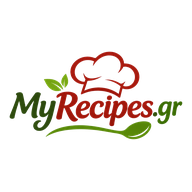
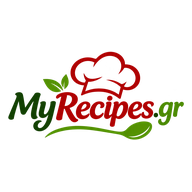
Λογότυπο χωρίς φόντο σε υψηλή ανάλυση
- Νέο διάφανο λογότυπο στην κεφαλίδα, στη σύνδεση και στην κοινοποίηση
- Στο σκούρο θέμα χωρίς λευκό πλαίσιο, με λεπτό ανοιχτό περίγραμμα
- Νέα εικονίδια εφαρμογής από το ίδιο αρχείο

Claude-Session: https://claude.ai/code/session_012AHsUfZs3sWFpJKNW1fSGE

Changed region(s): [[0.0312, 0.25, 0.9688, 0.75]]

diff --git a/index.html b/index.html
@@ -15,7 +15,7 @@
 <meta name="apple-mobile-web-app-status-bar-style" content="default">
 <link rel="preconnect" href="https://fonts.googleapis.com">
 <link rel="stylesheet" href="https://fonts.googleapis.com/css2?family=Commissioner:wght@500;700;800&family=Inter:wght@400;500;600&family=Roboto+Mono:wght@400;500&display=swap">
-<link rel="stylesheet" href="styles.css?v=15">
+<link rel="stylesheet" href="styles.css?v=16">
 </head>
 <body>
 
@@ -23,7 +23,7 @@
 <div class="wrap" id="authView" hidden>
   <div class="auth">
     <div class="auth-card">
-      <div class="auth-top"><h1 class="logo-h"><img class="logo" src="logo.png?v=15" alt="MyRecipes.gr" width="600" height="310"></h1><button class="linkish" id="authLang" type="button" translate="no">English</button></div>
+      <div class="auth-top"><h1 class="logo-h"><img class="logo" src="logo.png?v=16" alt="MyRecipes.gr" width="900" height="462"></h1><button class="linkish" id="authLang" type="button" translate="no">English</button></div>
       <p id="authIntro">Συνδέσου για να δεις τις συνταγές σου.</p>
       <form id="authForm" novalidate>
         <label class="f" id="emailRow">Email<input id="a-email" type="email" autocomplete="email" inputmode="email"></label>
@@ -45,7 +45,7 @@
   <header class="top">
     <div class="top-row">
       <div class="brand">
-        <h1 class="logo-h"><img class="logo" src="logo.png?v=15" alt="MyRecipes.gr" width="600" height="310"></h1>
+        <h1 class="logo-h"><img class="logo" src="logo.png?v=16" alt="MyRecipes.gr" width="900" height="462"></h1>
         <span>Οι συνταγές μου, ανά εστιατόριο</span>
       </div>
       <div class="top-right">
@@ -92,7 +92,7 @@
 </div>
 
 <div class="wrap" id="shareView" hidden>
-  <header class="top"><div class="top-row"><div class="brand"><a href="./" class="logo-link"><h1 class="logo-h"><img class="logo" src="logo.png?v=15" alt="MyRecipes.gr" width="600" height="310"></h1></a><span>Κοινοποιημένη συνταγή</span></div></div></header>
+  <header class="top"><div class="top-row"><div class="brand"><a href="./" class="logo-link"><h1 class="logo-h"><img class="logo" src="logo.png?v=16" alt="MyRecipes.gr" width="900" height="462"></h1></a><span>Κοινοποιημένη συνταγή</span></div></div></header>
   <div id="shareBox"></div>
 </div>
 
@@ -104,8 +104,8 @@
 <div id="toast" class="toast" hidden></div>
 
 <script src="https://cdn.jsdelivr.net/npm/@supabase/supabase-js@2.45.4/dist/umd/supabase.min.js"></script>
-<script src="i18n.js?v=15"></script>
-<script src="config.js?v=15"></script>
-<script src="app.js?v=15"></script>
+<script src="i18n.js?v=16"></script>
+<script src="config.js?v=16"></script>
+<script src="app.js?v=16"></script>
 </body>
 </html>

diff --git a/sw.js b/sw.js
@@ -1,6 +1,6 @@
 // Keeps the app shell available offline. Recipes themselves always come from Supabase.
-const CACHE = "tetradio-v15";
-const SHELL = ["./", "index.html", "styles.css?v=15", "app.js?v=15", "config.js?v=15", "i18n.js?v=15", "manifest.webmanifest", "logo.png?v=15", "icons/icon-192.png", "icons/apple-touch-icon.png",
+const CACHE = "tetradio-v16";
+const SHELL = ["./", "index.html", "styles.css?v=16", "app.js?v=16", "config.js?v=16", "i18n.js?v=16", "manifest.webmanifest", "logo.png?v=16", "icons/icon-192.png", "icons/apple-touch-icon.png",
   "https://cdn.jsdelivr.net/npm/@supabase/supabase-js@2.45.4/dist/umd/supabase.min.js"];
 
 self.addEventListener("install", (e) => { e.waitUntil(caches.open(CACHE).then((c) => c.addAll(SHELL)).then(() => self.skipWaiting())); });

diff --git a/styles.css b/styles.css
@@ -368,6 +368,7 @@ body.readonly [data-act="share"], body.readonly [data-act="team"] { display: non
 .auth-top #authLang { align-self: flex-end; order: -1; }
 .logo-link { display: inline-block; }
 @media (prefers-color-scheme: dark) {
-  .logo { background: #fff; border-radius: 12px; padding: 4px 8px; }
+  /* No background: a soft light outline keeps the dark green readable on dark screens. */
+  .logo { filter: drop-shadow(0 0 1px rgba(255,255,255,.85)) drop-shadow(0 0 5px rgba(255,255,255,.18)); }
 }
 @media (max-width: 420px) { .logo { height: 64px; } .auth-top .logo { height: 96px; } }
